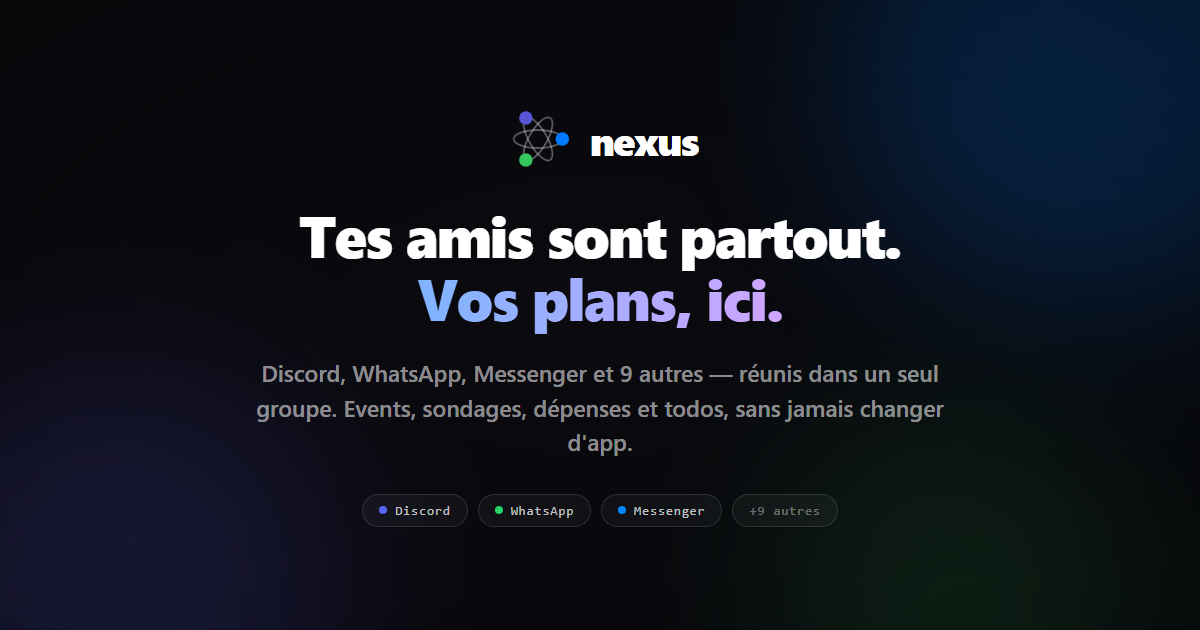
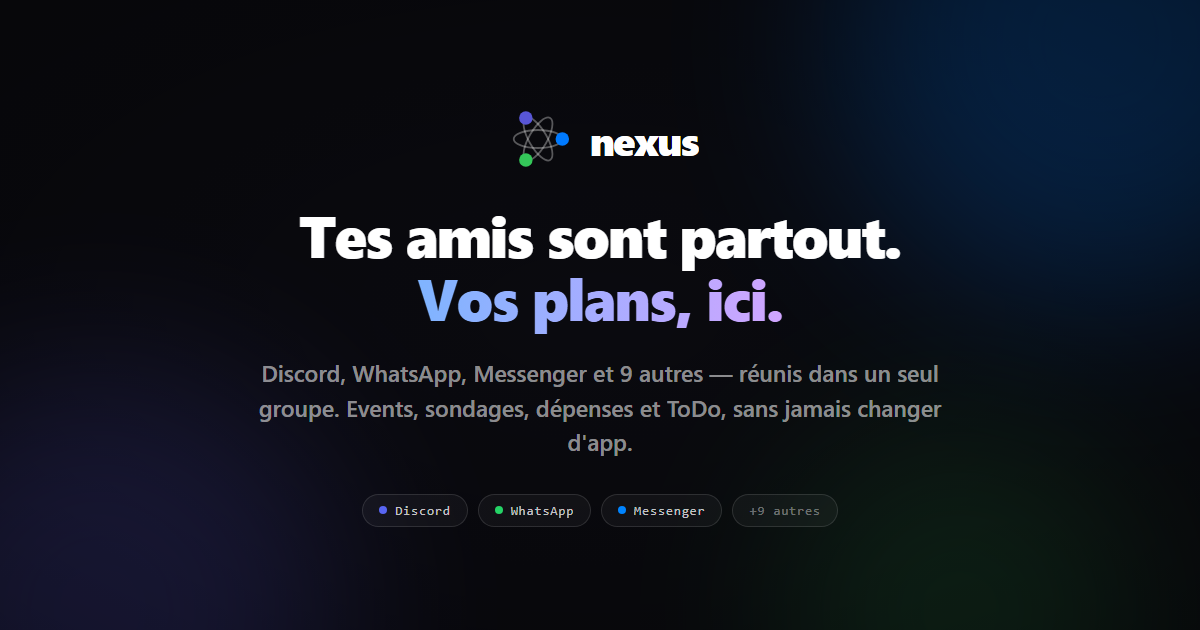
chore(public-pages): renomme « todos » en « ToDo » sur la landing (#41)
Renomme le module dans les textes user-visible : Hero, HowItWorks,
l'eyebrow de la carte Produit, et les 3 meta descriptions de
index.html (description, og:description, twitter:description).

L'eyebrow devient TODO et non ToDo : les quatre eyebrows des cartes
module sont en capitales littérales (ÉVÉNEMENTS, SONDAGES, DÉPENSES)
sans text-transform CSS — écrire ToDo y aurait cassé le rythme visuel.

Les identifiants techniques restent inchangés (LX_MODULE.todos,
moduleKey, TodoRow, INITIAL_TODOS, TodosCard) : c'est du nommage de
code, pas de l'affichage.

og.png régénéré : le mot était rasterisé dans l'image, un simple
remplacement de texte dans le HTML l'aurait laissée incohérente.

Changed region(s): [[0.2158, 0.6333, 0.8017, 0.6635]]

diff --git a/packages/landing/index.html b/packages/landing/index.html
@@ -8,7 +8,7 @@
     <title>Nexus — Tes amis sont partout. Vos plans, ici.</title>
     <meta
       name="description"
-      content="Branche Discord, WhatsApp, Messenger et 9 autres à un seul groupe — puis gère events, sondages, dépenses et todos sans jamais changer d'app."
+      content="Branche Discord, WhatsApp, Messenger et 9 autres à un seul groupe — puis gère events, sondages, dépenses et ToDo sans jamais changer d'app."
     />
 
     <!-- Open Graph -->
@@ -16,7 +16,7 @@
     <meta property="og:title" content="Nexus — Tes amis sont partout. Vos plans, ici." />
     <meta
       property="og:description"
-      content="Branche Discord, WhatsApp, Messenger et 9 autres à un seul groupe — puis gère events, sondages, dépenses et todos sans jamais changer d'app."
+      content="Branche Discord, WhatsApp, Messenger et 9 autres à un seul groupe — puis gère events, sondages, dépenses et ToDo sans jamais changer d'app."
     />
     <meta property="og:type" content="website" />
     <meta property="og:url" content="https://nexusapp.chat" />
@@ -31,7 +31,7 @@
     <meta name="twitter:title" content="Nexus — Tes amis sont partout. Vos plans, ici." />
     <meta
       name="twitter:description"
-      content="Branche Discord, WhatsApp, Messenger et 9 autres à un seul groupe — puis gère events, sondages, dépenses et todos sans jamais changer d'app."
+      content="Branche Discord, WhatsApp, Messenger et 9 autres à un seul groupe — puis gère events, sondages, dépenses et ToDo sans jamais changer d'app."
     />
     <meta name="twitter:image" content="https://nexusapp.chat/og.png" />
 

diff --git a/packages/web/src/screens/landing/sections/Hero.tsx b/packages/web/src/screens/landing/sections/Hero.tsx
@@ -158,7 +158,7 @@ export function Hero({ onDownload, onDemo }: { onDownload: () => void; onDemo: (
             }}
           >
             Branche Discord, WhatsApp, Messenger et 9 autres à un seul groupe — puis gère events,
-            sondages, dépenses et todos sans jamais changer d&apos;app.
+            sondages, dépenses et ToDo sans jamais changer d&apos;app.
           </p>
 
           <div

diff --git a/packages/web/src/screens/landing/sections/HowItWorks.tsx b/packages/web/src/screens/landing/sections/HowItWorks.tsx
@@ -20,7 +20,7 @@ const STEPS = [
   {
     n: '03',
     title: 'Organisez-vous',
-    text: 'Events, sondages, dépenses, todos. Tout est centralisé dans l’espace groupe, personne n’a rien à installer.',
+    text: 'Events, sondages, dépenses, ToDo. Tout est centralisé dans l’espace groupe, personne n’a rien à installer.',
   },
 ] as const;
 

diff --git a/packages/web/src/screens/landing/sections/Product.tsx b/packages/web/src/screens/landing/sections/Product.tsx
@@ -530,7 +530,7 @@ function TodosCard() {
     >
       <div style={{ position: 'relative' }}>
         <Eyebrow color={m.text} dotBg="rgba(52,199,89,.45)">
-          TODOS
+          TODO
         </Eyebrow>
         <div
           style={{
